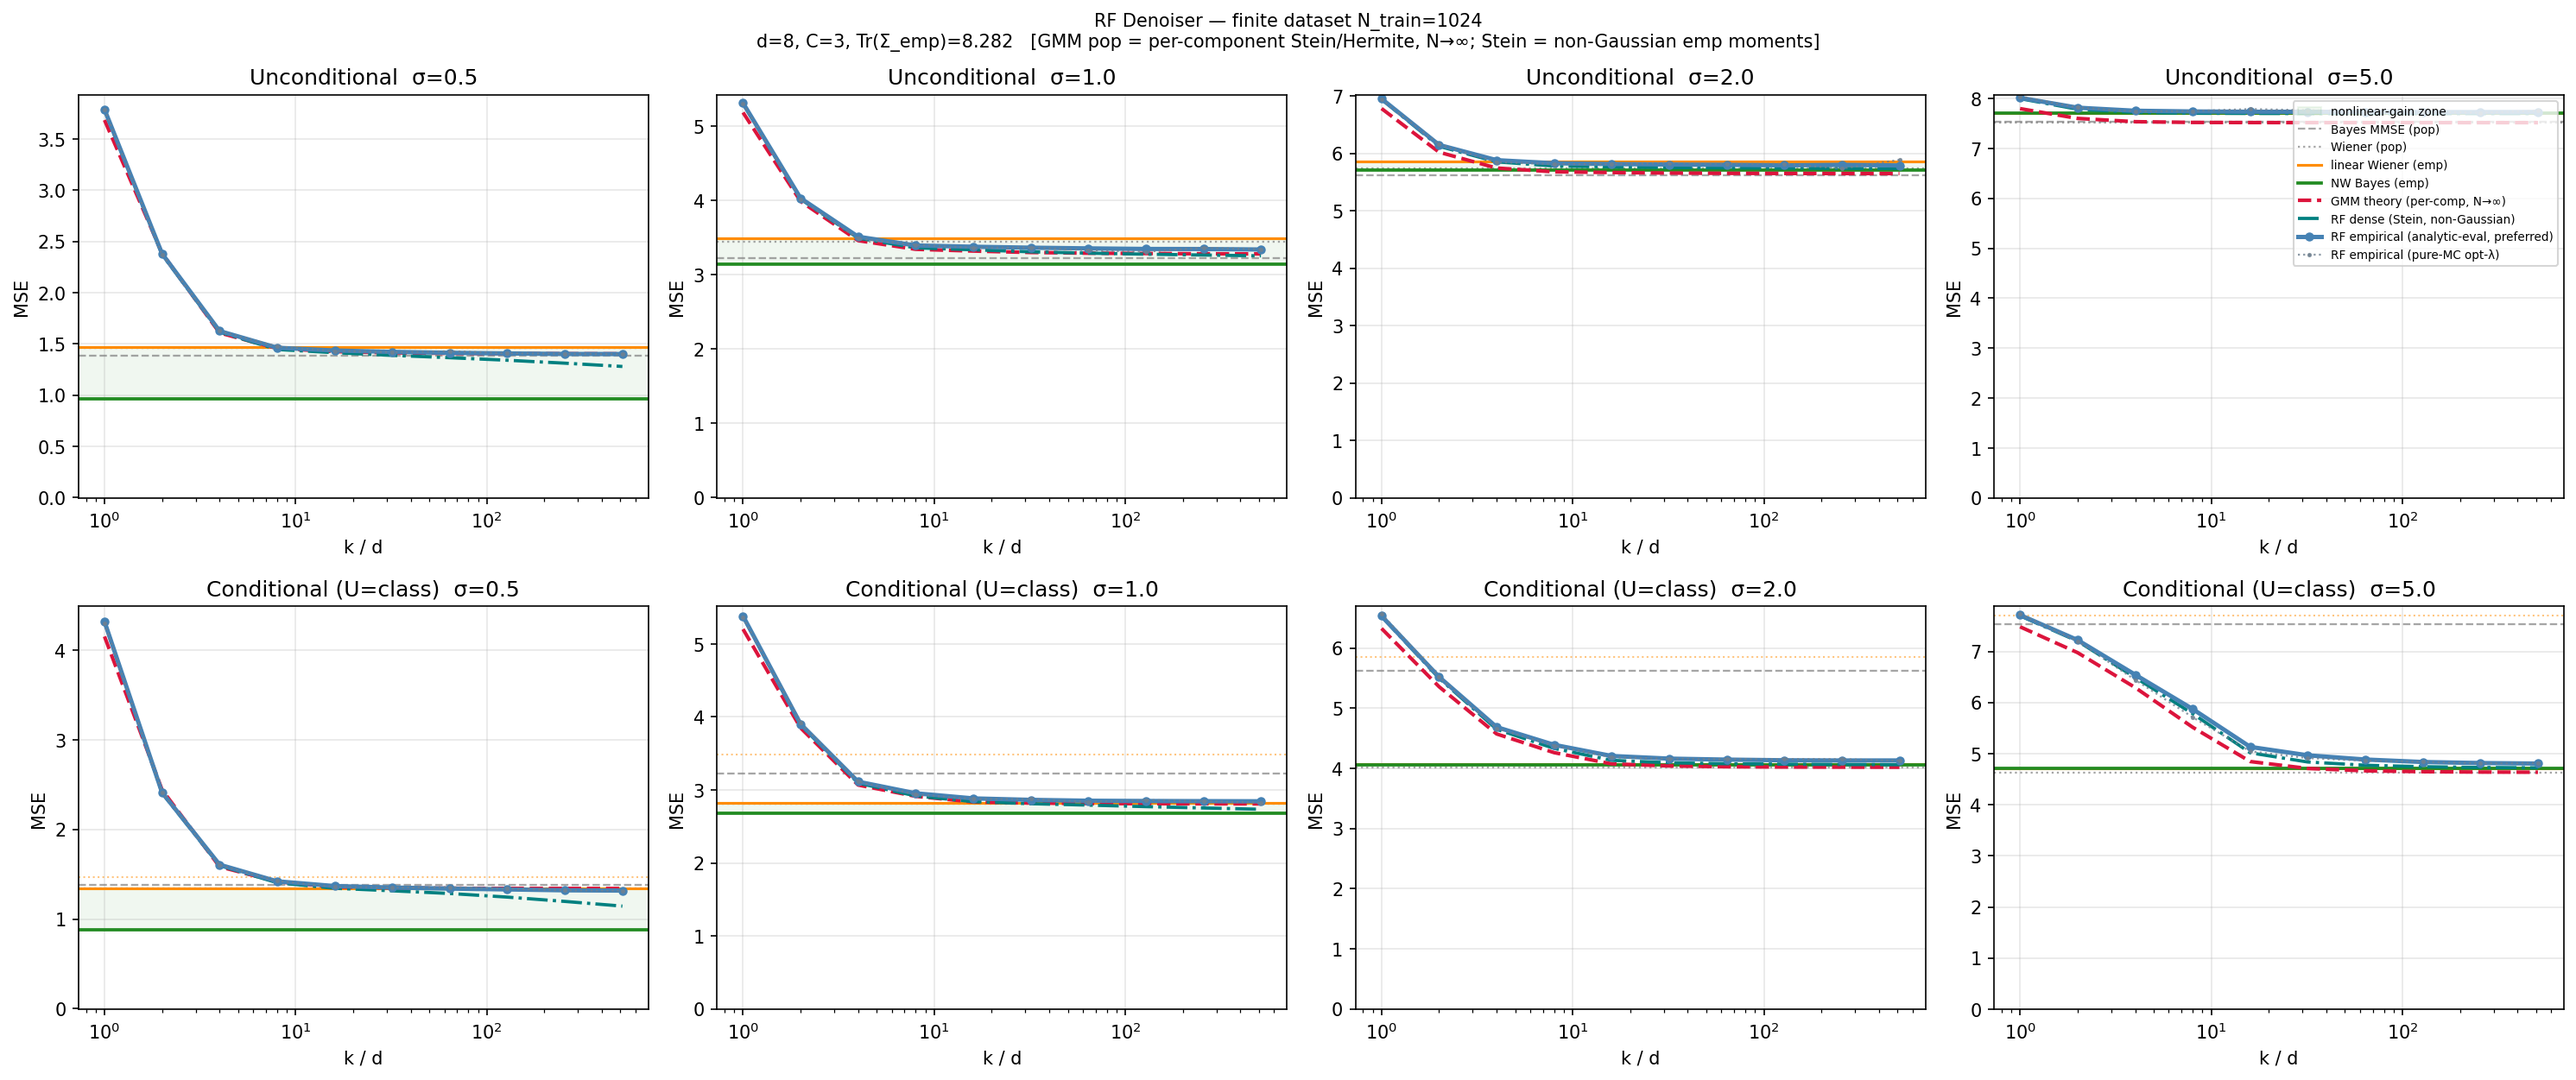
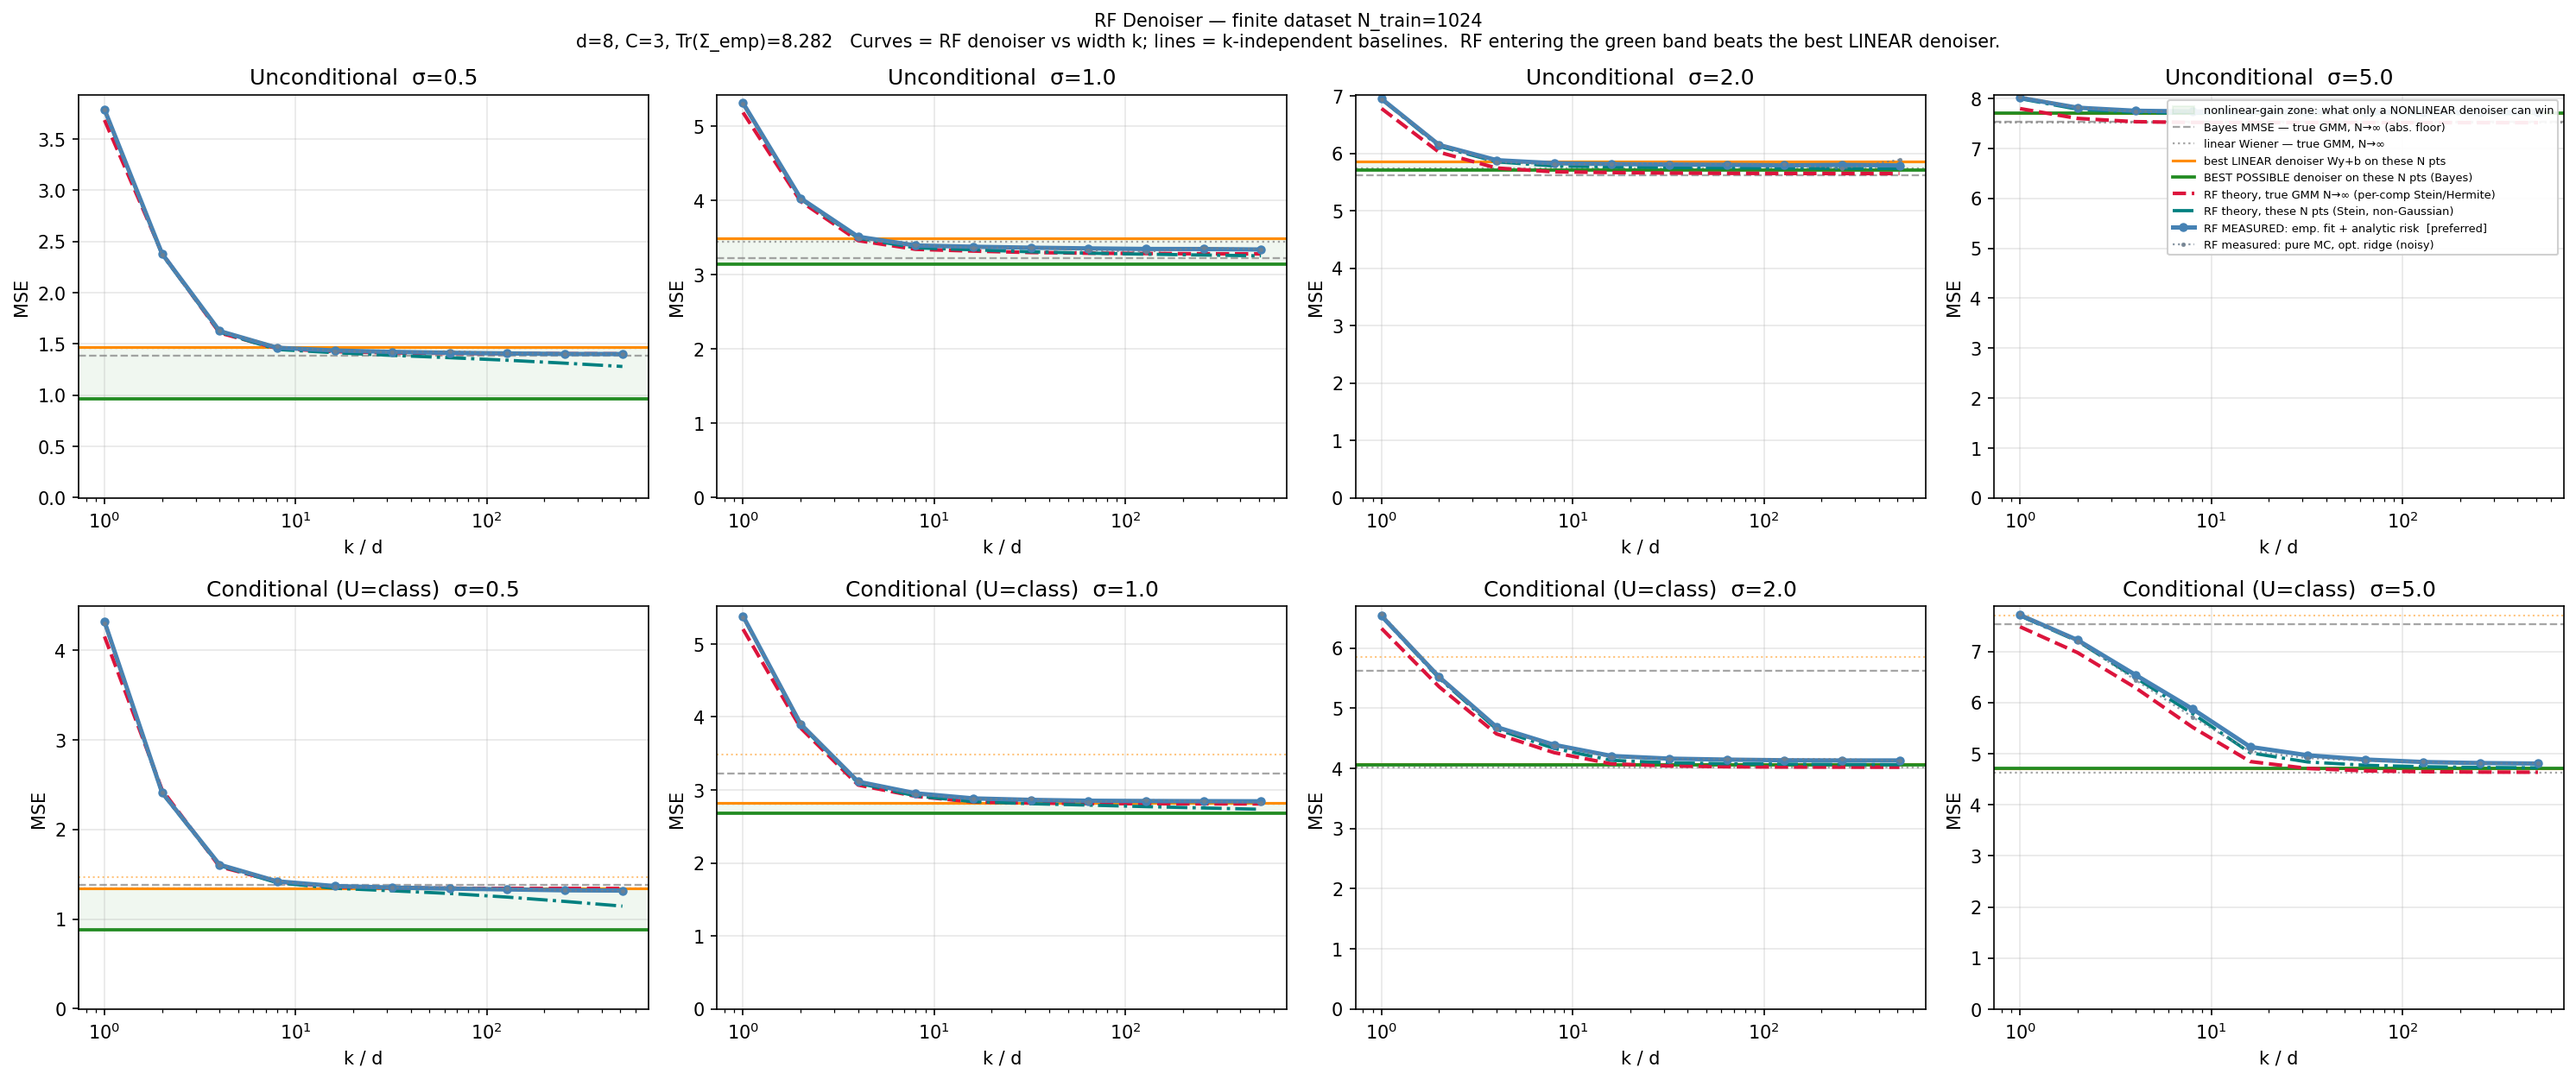
docs(rf-gmm): self-explanatory legends on the finite-N_train figures
Each legend entry now says what the line IS, not just which estimator produced it:
  - "BEST POSSIBLE denoiser on these N pts (Bayes)"  (was "NW Bayes (emp)")
  - "best LINEAR denoiser Wy+b on these N pts"       (was "linear Wiener (emp)")
  - "Bayes MMSE - true GMM, N->inf (abs. floor)"     (was "Bayes MMSE (pop)")
  - "RF theory, true GMM N->inf (per-comp Stein/Hermite)"
  - "RF theory, these N pts (Stein, non-Gaussian)"
  - "RF MEASURED: emp. fit + analytic risk [preferred]"
  - green band: "nonlinear-gain zone: what only a NONLINEAR denoiser can win"
Subtitle now states how to read the plot (curves = RF vs width k, lines =
k-independent baselines, RF entering the green band beats the best linear denoiser).
Regenerated all d=8 and d=32 figures from the stored tables (no recompute).

Changed region(s): [[0.8418, 0.0935, 0.9977, 0.2494], [0.2182, 0.0312, 0.7794, 0.0624]]

diff --git a/scripts/rf_gmm_finite_sample.py b/scripts/rf_gmm_finite_sample.py
@@ -332,7 +332,8 @@ def _plot(N_train, res, emp_base, pop_base, trace_p0_emp):
     fig.suptitle(
         f'RF Denoiser — finite dataset N_train={N_train}{tag}\n'
         f'd={D}, C={N_CLASSES}, Tr(Σ_emp)={trace_p0_emp:.3f}   '
-        f'[GMM pop = per-component Stein/Hermite, N→∞; Stein = non-Gaussian emp moments]', fontsize=10)
+        f'Curves = RF denoiser vs width k; lines = k-independent baselines.  '
+        f'RF entering the green band beats the best LINEAR denoiser.', fontsize=10)
 
     # per row: (title, u/c, NW-Bayes key, pop-Wiener key, EMPIRICAL-linear-Wiener key)
     # The linear baseline is row-matched: uncond -> unconditional Wiener;
@@ -350,25 +351,29 @@ def _plot(N_train, res, emp_base, pop_base, trace_p0_emp):
             # best LINEAR denoiser of the same conditioning, heading toward Bayes.
             if eb[nw_key] is not None and lin_emp > eb[nw_key]:
                 ax.axhspan(eb[nw_key], lin_emp, color='green', alpha=0.06, zorder=0,
-                           label=('nonlinear-gain zone' if (r == 0 and col == nS - 1) else None))
+                           label=('nonlinear-gain zone: what only a NONLINEAR denoiser can win' if (r == 0 and col == nS - 1) else None))
 
             # population references (gray)
-            ax.axhline(pb['bayes_pop'], color='gray', ls='--', lw=1.1, alpha=.7, label='Bayes MMSE (pop)')
+            ax.axhline(pb['bayes_pop'], color='gray', ls='--', lw=1.1, alpha=.7,
+                       label='Bayes MMSE — true GMM, N→∞ (abs. floor)')
             ax.axhline(pb[popw_key],    color='gray', ls=':',  lw=1.1, alpha=.7,
-                       label=('Wiener (pop)' if r == 0 else 'cond Wiener (pop)'))
+                       label=('linear Wiener — true GMM, N→∞' if r == 0
+                              else 'cond. linear Wiener — true GMM, N→∞'))
             # empirical linear baseline (row-matched)
             ax.axhline(lin_emp, color='darkorange', ls='-', lw=1.5,
-                       label=('linear Wiener (emp)' if r == 0 else 'cond linear Wiener (emp)'))
+                       label=('best LINEAR denoiser Wy+b on these N pts' if r == 0
+                              else 'best linear denoiser, per class'))
             if r == 1:   # faint uncond linear Wiener for reference in the cond row
                 ax.axhline(eb['wiener_emp'], color='darkorange', ls=':', lw=1.0, alpha=.5,
-                           label='uncond linear Wiener (ref)')
+                           label='uncond. linear Wiener (ref, from row 1)')
             if eb[nw_key] is not None:
                 ax.axhline(eb[nw_key], color='forestgreen', ls='-', lw=1.8,
-                           label=('NW Bayes (emp)' if r == 0 else 'NW Bayes cond (emp)'))
+                           label=('BEST POSSIBLE denoiser on these N pts (Bayes)' if r == 0
+                              else 'best possible denoiser knowing the class'))
 
             # theory curves (k-dependent)
-            ax.plot(kd, R[f'gmm_pop_{uc}'],    color='crimson',  lw=2,   ls='--', label='GMM theory (per-comp, N→∞)')
-            ax.plot(kd, R[f'stein_{uc}'],      color='teal',     lw=1.8, ls='-.', label='RF dense (Stein, non-Gaussian)')
+            ax.plot(kd, R[f'gmm_pop_{uc}'],    color='crimson',  lw=2,   ls='--', label='RF theory, true GMM N→∞ (per-comp Stein/Hermite)')
+            ax.plot(kd, R[f'stein_{uc}'],      color='teal',     lw=1.8, ls='-.', label='RF theory, these N pts (Stein, non-Gaussian)')
             # Circulant-constrained RF (block-circulant Θ & W; only k divisible by d).
             # Curve moved to the dedicated experiment scripts/rf_circulant_win.py (where the
             # p̄0/Δ_stat context lives). Values are still computed and stored in the npz
@@ -378,10 +383,10 @@ def _plot(N_train, res, emp_base, pop_base, trace_p0_emp):
 
             # RF empirical (PREFERRED, headline): stable analytic-eval estimate
             ax.plot(kd, R[f'rf_analytic_{uc}'], color='steelblue', lw=2.4, marker='o', ms=4,
-                    label='RF empirical (analytic-eval, preferred)')
+                    label='RF MEASURED: emp. fit + analytic risk  [preferred]')
             # RF empirical: pure-MC opt-λ, kept for comparison (wobbly, can dip < Stein)
             ax.plot(kd, R[f'rf_optridge_{uc}'], color='slategray', lw=1.1, ls=':', marker='.', ms=3,
-                    alpha=0.8, label='RF empirical (pure-MC opt-λ)')
+                    alpha=0.8, label='RF measured: pure MC, opt. ridge (noisy)')
             # RF empirical: fixed-ridge study (opt-in)
             if STUDY_FIXED_RIDGE:
                 ax.plot(kd, R[f'rf_fixed_test_{uc}'],  color='slategray', lw=1.2, ls='-',
@@ -393,7 +398,7 @@ def _plot(N_train, res, emp_base, pop_base, trace_p0_emp):
             ax.set_title(f'{title}  σ={sigma}'); ax.grid(True, alpha=.3)
             ax.set_ylim(bottom=-0.01)
             if r == 0 and col == nS - 1:
-                ax.legend(fontsize=6.5, loc='upper right')
+                ax.legend(fontsize=6.2, loc='upper right', framealpha=.92)
 
     plt.tight_layout()
     path = os.path.join(_outdir('figures'), f'N{N_train}.png')
